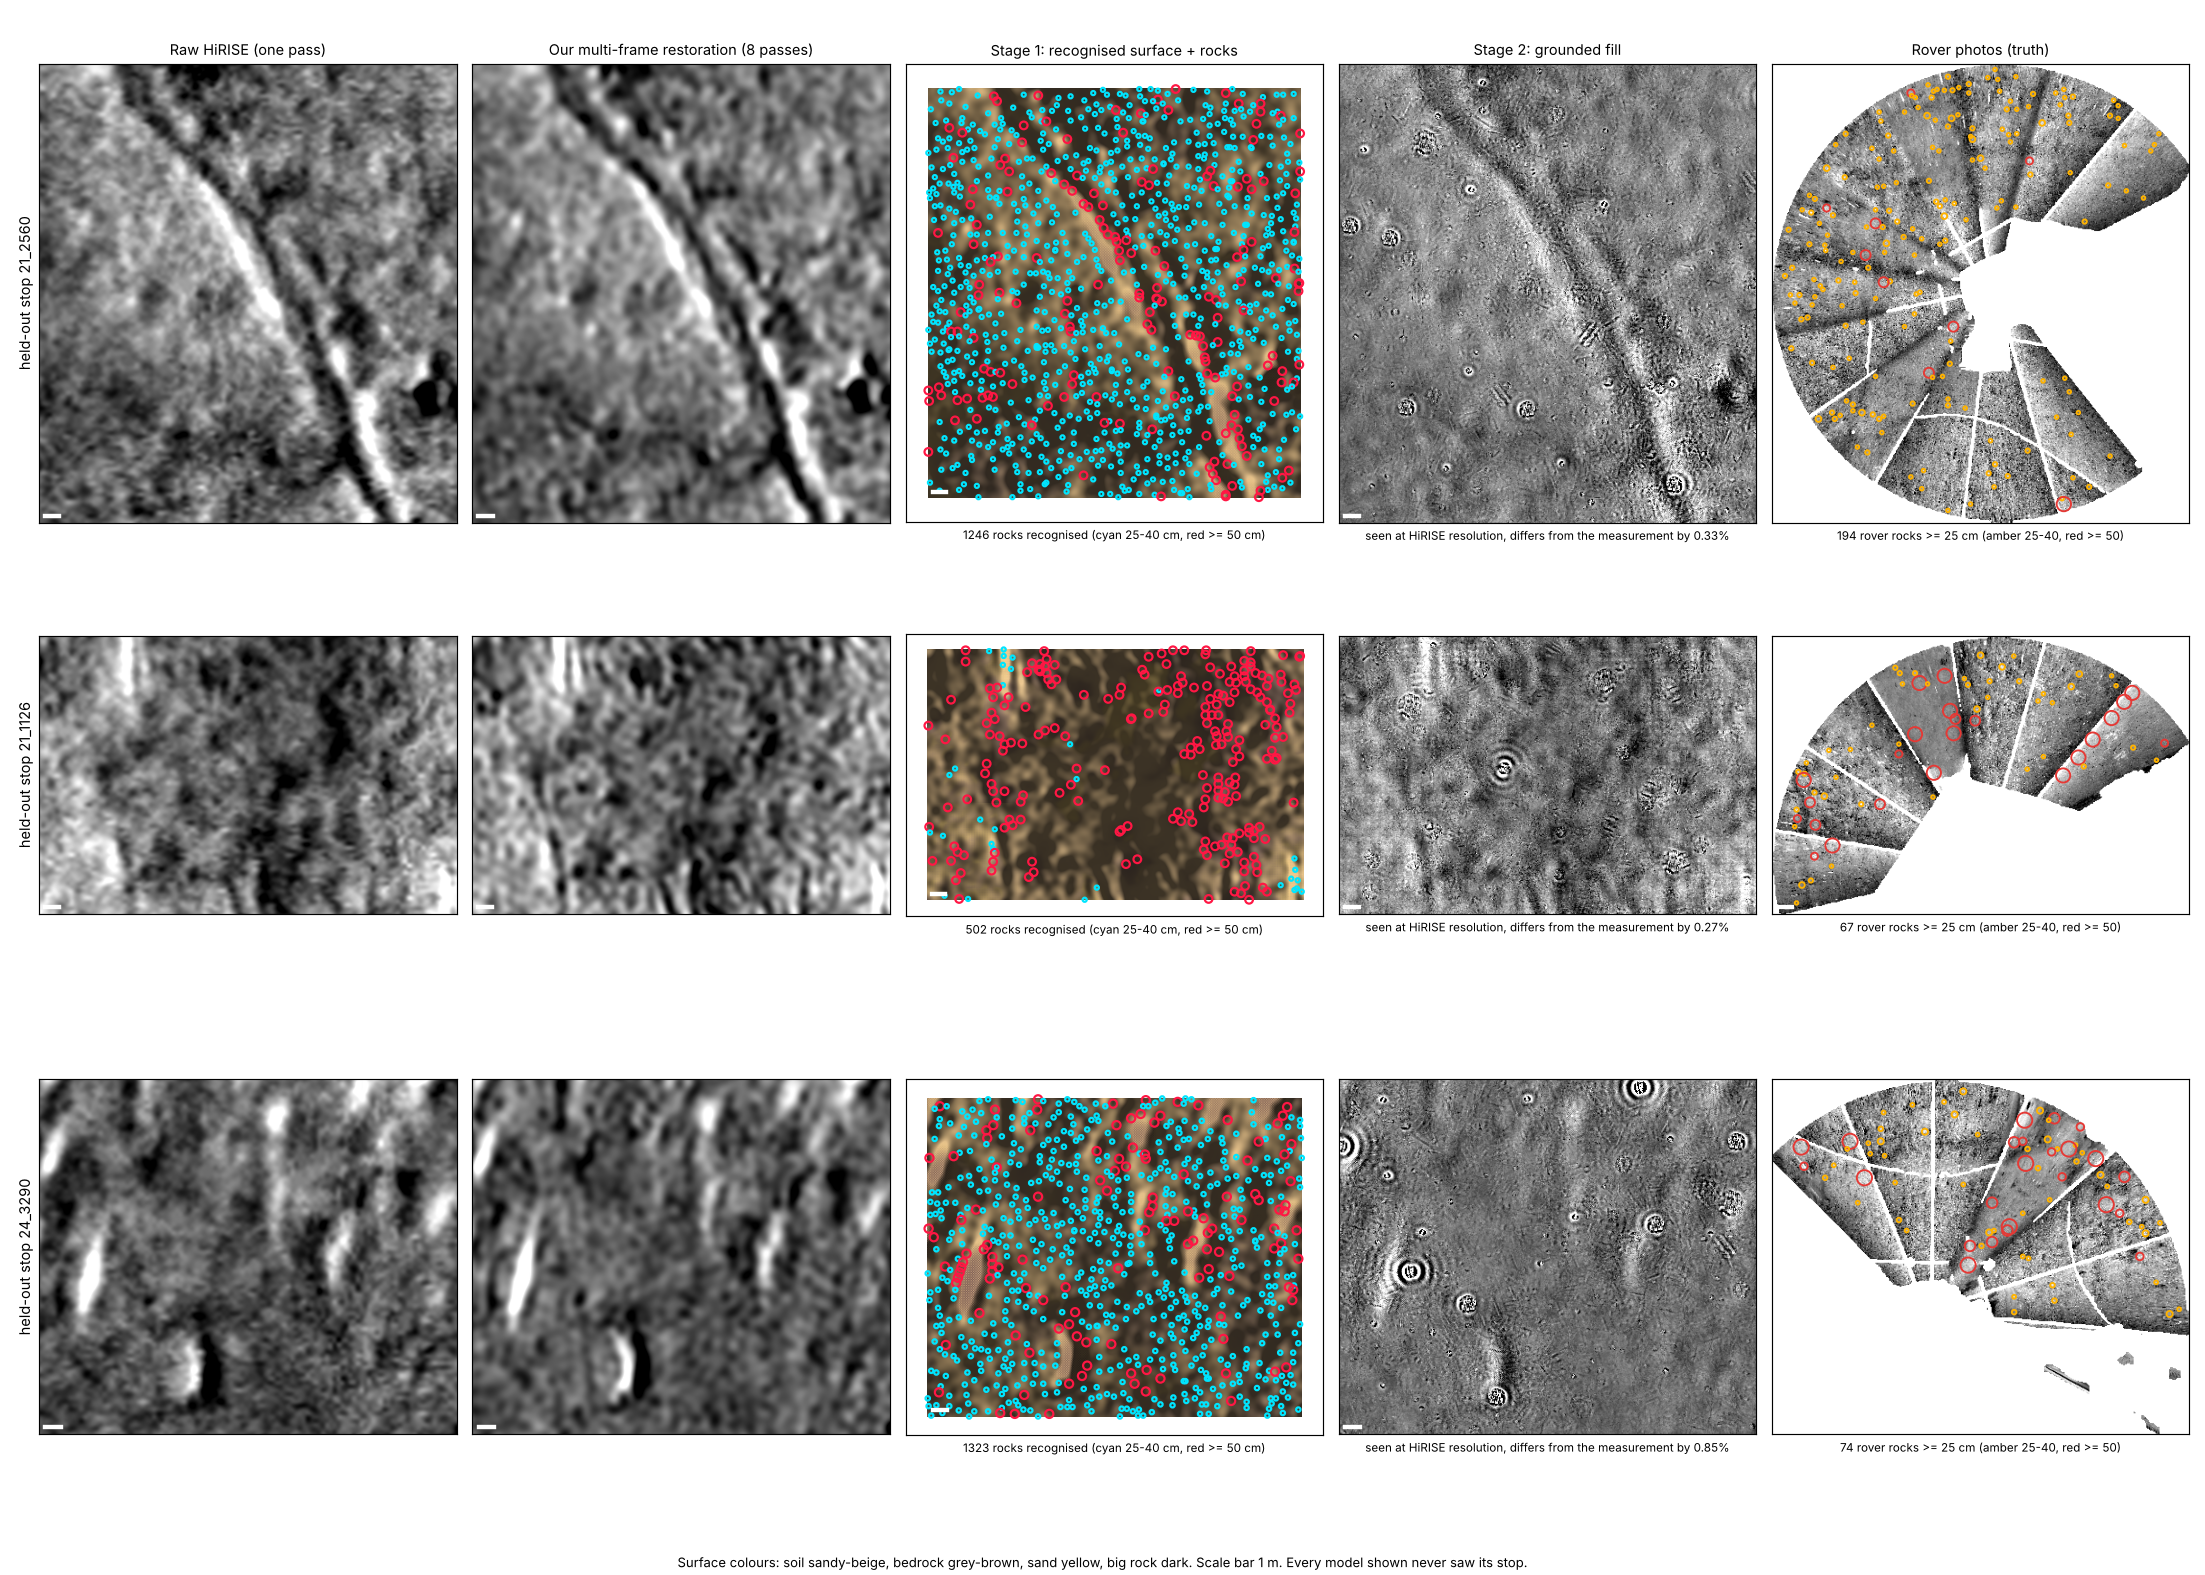
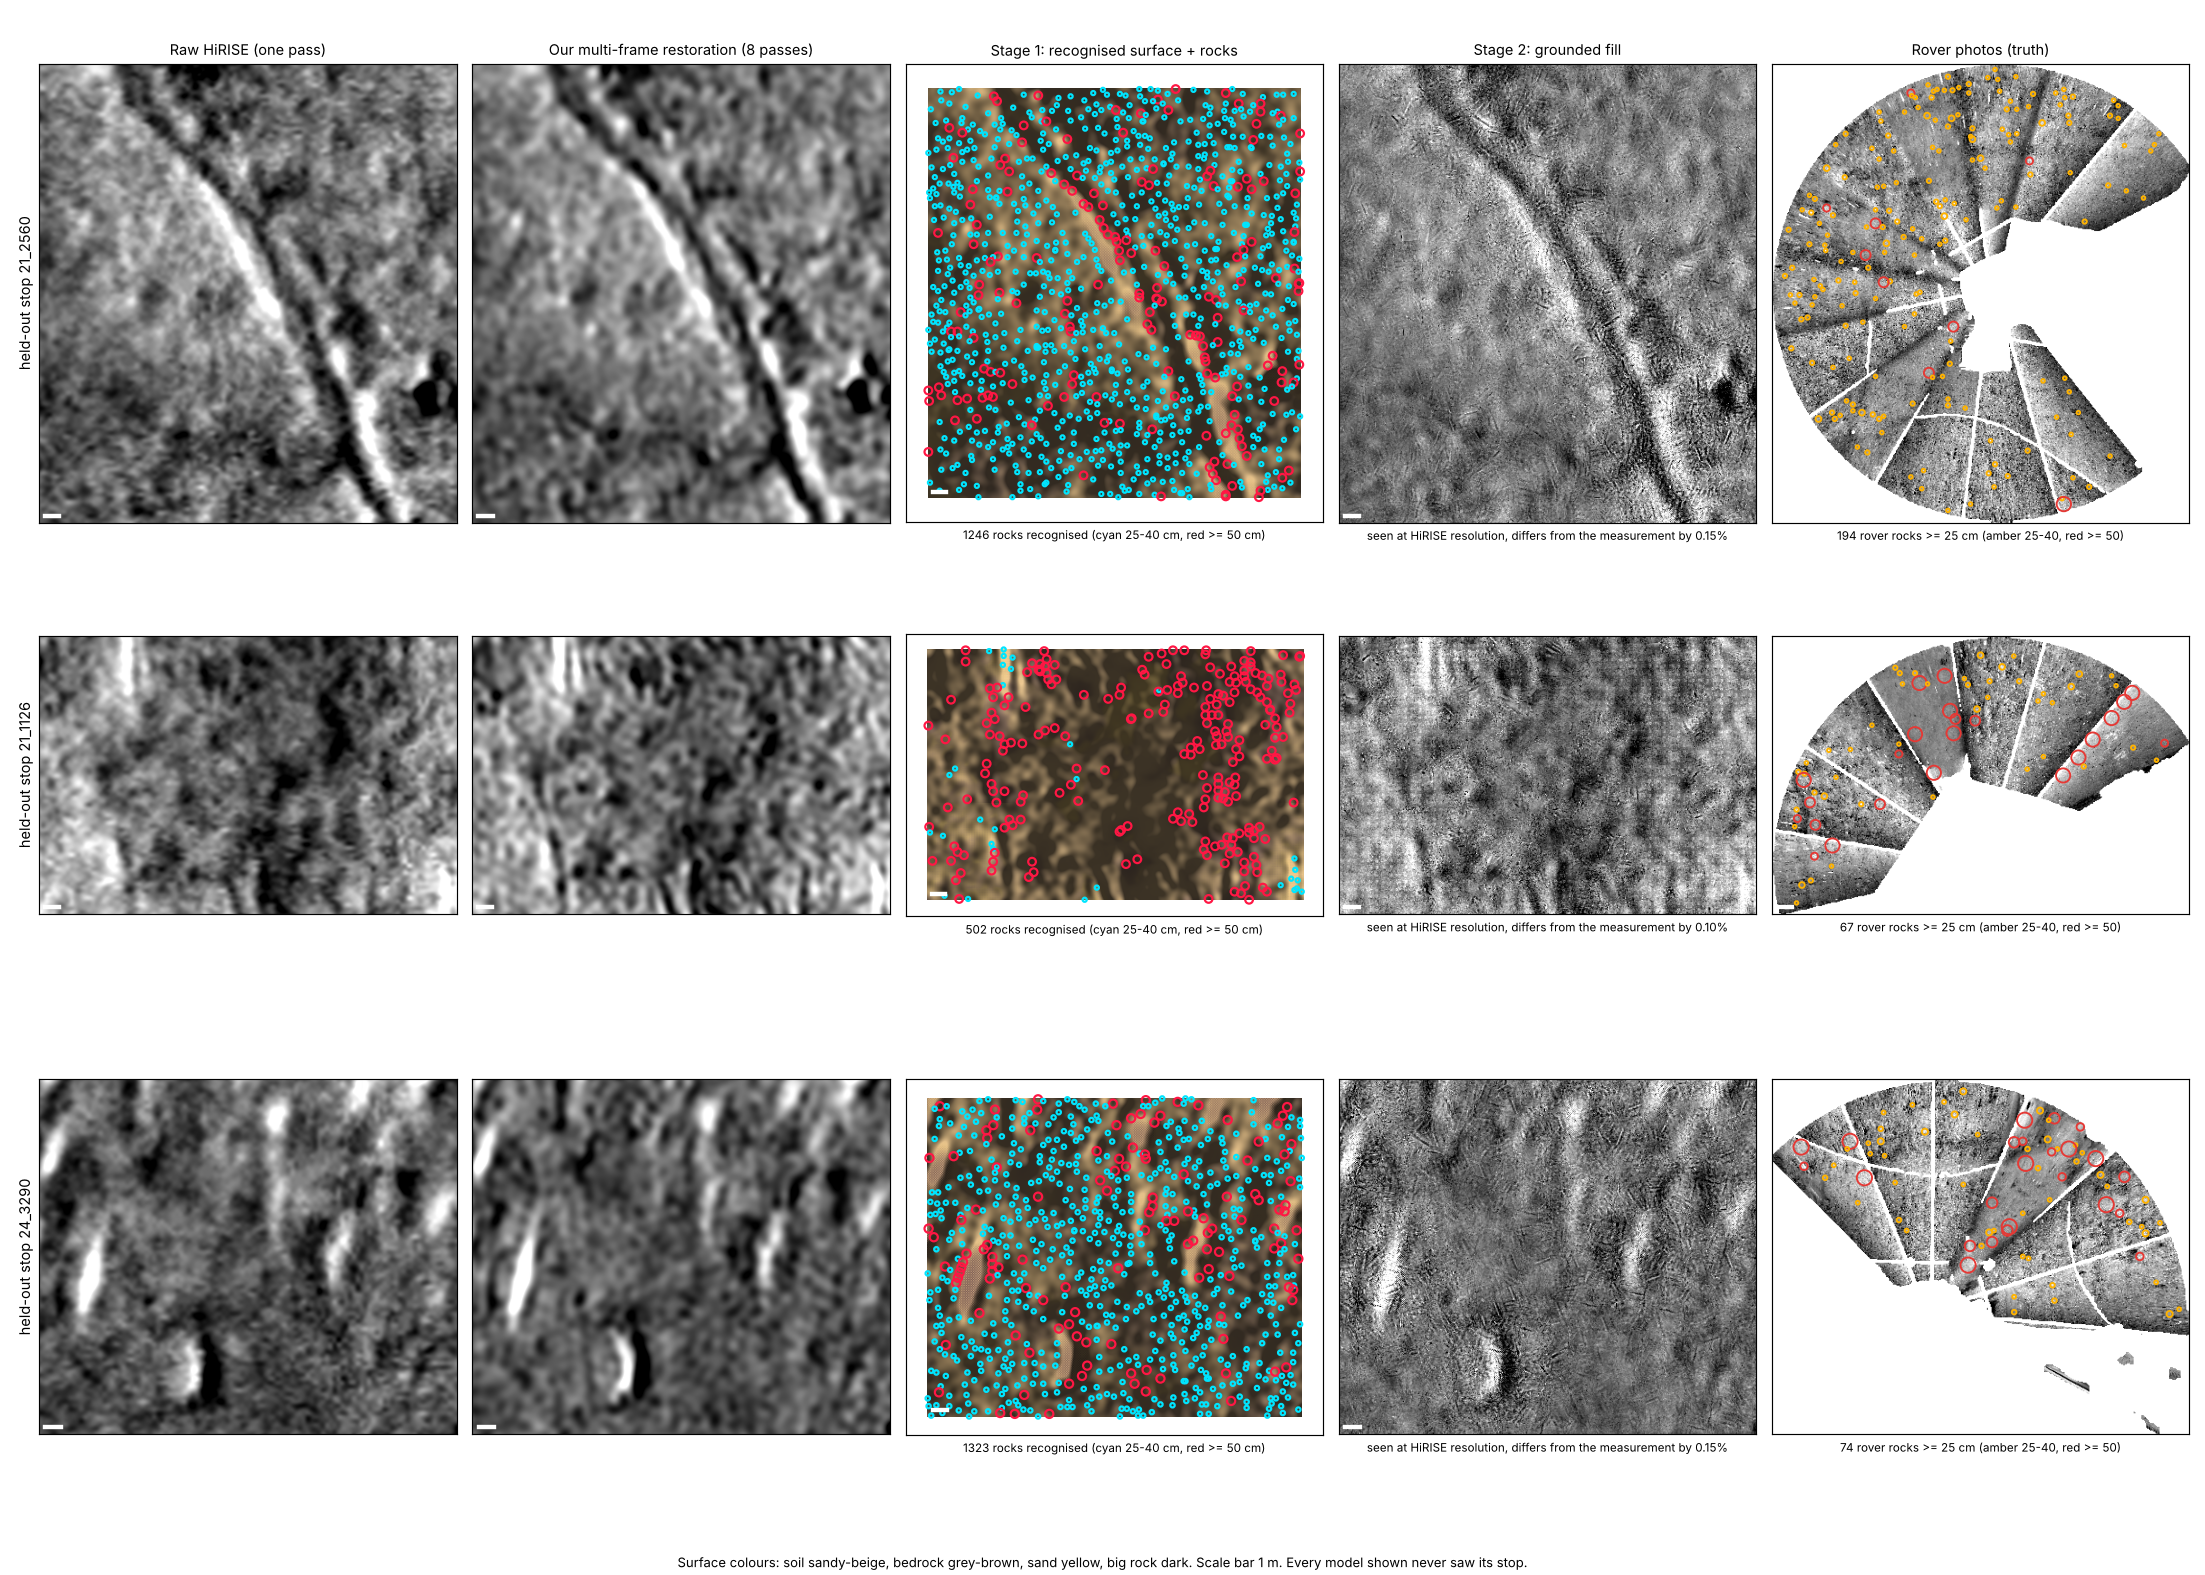
Grounded fill: place rocks only where the measured restoration shows a rock-scale blob (removes ring artefacts)
Of 500-1,300 recognised rocks per stop, only 1-4 are supported by the HiRISE measurement.

Claude-Session: https://claude.ai/code/session_01TwCFzmgE88qfQ6JD2uPsHE

diff --git a/pipeline/grounded_fill.py b/pipeline/grounded_fill.py
@@ -129,6 +129,11 @@ def fill(base_up, class_prob, rocks, lib, psf_px, seed=0):
     tex = tex * lib.get("gain", 1.0)
     rl = np.zeros_like(base_up); H, W = base_up.shape
     frms = np.sqrt(ndi.gaussian_filter(tex ** 2, 8 * psf_px)); sd = lib.get("shadow_dir")
+    # place a rock only where the MEASURED restoration shows a bright rock-scale blob (scale-normalised LoG above
+    # k x robust noise); a rock HiRISE does not support would have to be cancelled by the lock, leaving a ring.
+    zb = (base_up - ndi.gaussian_filter(base_up, 4 * psf_px)); zb = zb / (1.4826 * np.median(np.abs(zb - np.median(zb))) + 1e-12)
+    resp = -(psf_px ** 2) * ndi.gaussian_laplace(zb, psf_px); resp = ndi.maximum_filter(resp, 5)
+    rocks = [q for q in rocks if resp[int(q[0]), int(q[1])] > lib.get("support_k", 2.5)]
     for y, x, D, _ in rocks:
         b = 0 if D <= rz.BANDS[0][1] else 1; pool = lib["sprites"][b] or lib["sprites"][1 - b]
         if not pool: continue
@@ -148,4 +153,4 @@ def fill(base_up, class_prob, rocks, lib, psf_px, seed=0):
     out = base_up + added
     ob = observe(base_up, psf_px)
     resid = float(np.std(observe(out, psf_px) - ob) / (np.std(ob - ob.mean()) + 1e-12))
-    return out, dict(texture=tex, rocks=rl, added=added, lock_residual_rel=resid)
+    return out, dict(texture=tex, rocks=rl, added=added, lock_residual_rel=resid, rocks_placed=len(rocks))

diff --git a/scripts/render_grounded.py b/scripts/render_grounded.py
@@ -40,7 +40,7 @@ for r_, stop in enumerate(stops):
     rocks = [q for q in rz.decode(rp, thr)]
     base = r["restored_multi"].astype(float)
     out, info = gf.fill(base, cp, rocks, lib, PSF_PX, seed=1)
-    stats[stop] = dict(lock_residual_rel=info["lock_residual_rel"], rocks_recognised=len(rocks), rover_rocks=len(truth_rocks))
+    stats[stop] = dict(lock_residual_rel=info["lock_residual_rel"], rocks_recognised=len(rocks), rocks_placed=info.get("rocks_placed"), rover_rocks=len(truth_rocks))
     Z, _ = gf.to_grid(t, PX, base.shape[0])
     ys, xs = np.nonzero(np.isfinite(Z)); y0, y1, x0, x1 = ys.min(), ys.max() + 1, xs.min(), xs.max() + 1
     crop = lambda a: a[y0:y1, x0:x1]
